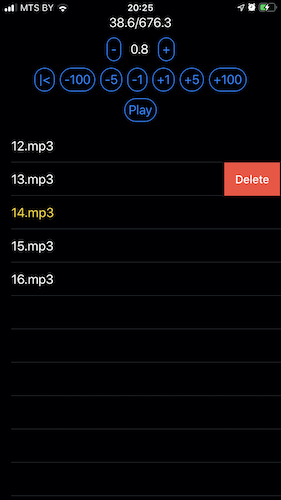
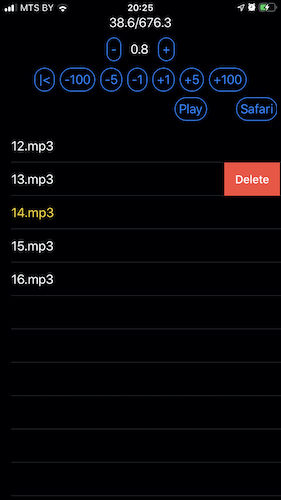
Readme.md

Changed region(s): [[0.8256, 0.18, 0.9964, 0.27], [0.427, 0.18, 0.5694, 0.27], [0.5979, 0.18, 0.7402, 0.27]]

diff --git a/ReaderTranslatorPlayer/ContentView.swift b/ReaderTranslatorPlayer/ContentView.swift
@@ -106,12 +106,13 @@ struct ContentView: View {
             Text("\(currentStatus)").frame(width: 100)
             audioRateView
             rewindView
-            HStack {
+            HStack(spacing: 40) {
+                Spacer()
+                playPauseButton
                 Button(
                     action: { self.showSafari = true },
                     label: { Text("Safari") })
-                .buttonStyle(DefaultButtonStyle())
-                playPauseButton
+                    .buttonStyle(DefaultButtonStyle())
             }
             fileList
         }

diff --git a/README.md b/README.md
@@ -59,6 +59,11 @@ And I like to listen to how a word or sentence is pronounced through the voice e
 Sometimes I am lazy to look into the translator and I make an assumption about the meaning of a word or idiom and it can lead to a missunderstanding which turns into even greater loss of my time.</p>
 <p>Another useful feature is to write text in Safari to check and listen to it with a simple selection of text.</p>
 
+** update **
+As the project progressed I am not feeling to back to UIKit. Being able to craft a new idea in a few minutes on SwiftUI inspire me to continue developing this project. The ability to concentrate on ideas rather than realizations gives freedom to my creativity. 
+As I see now this project, when it already has enough useful features that I use every day. Most likely it will be the ecosystem with various services and additional apps that will help you get the language in. The project that helps to avoid the routine while you read, listen and browse info in your chosen language. Everyone can choose own convenient way to get into the foreign language. I like to move forward all time. If I can not do well now I can do it best tomorrow. I like to choose a convenient way to dive into a foreign language. I don't like to study but I like to explore.
+I am going to dive into a new foreign language. I think I will get new ideas for new features to use some foreign language from scratch.
+
 ## Features
 - Support MacOS, ipadOS, iOS
 - Read PDF books or Web pages
